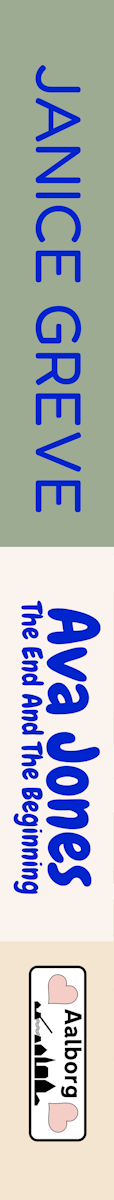
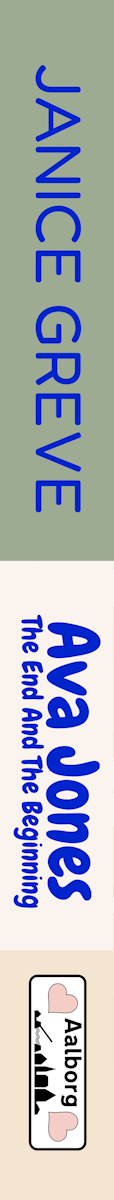
Only show ribbon on 3D image of unrelesed books.

Changed region(s): [[0.0, 0.4317, 1.0, 0.9867]]

diff --git a/src/utils/bookLoader.js b/src/utils/bookLoader.js
@@ -1,13 +1,18 @@
 import books from '../content/books.json';
 
 export const getBooks = (lang) => {
-  return books.map(book => ({
-    id: book.id,
-    cover: getCover(lang, book),
-    cover3d: getCover3d(lang, book),
-    ...book['en'],
-    ...book[lang],
-  }));
+  return books.map(book => {
+    const localizedBook = {
+      id: book.id,
+      cover: getCover(lang, book),
+      ...book['en'],
+      ...book[lang],
+    };
+
+    localizedBook.cover3d = getCover3d(lang, localizedBook);
+
+    return localizedBook;
+  });
 };
 
 export const getBookById = (lang, id) => getBooks(lang).find(b => b.id === id);
@@ -28,5 +33,6 @@ const getCover = (lang, book) => {
 }
 
 const getCover3d = (lang, book) => {
-  return new URL(`../assets/generated/${lang}/${book.id}.3d.webp`, import.meta.url).href;
+  const version = book.status === "soon" ? ".ribbon" : "";
+  return new URL(`../assets/generated/${lang}/${book.id}${version}.3d.webp`, import.meta.url).href;
 }
